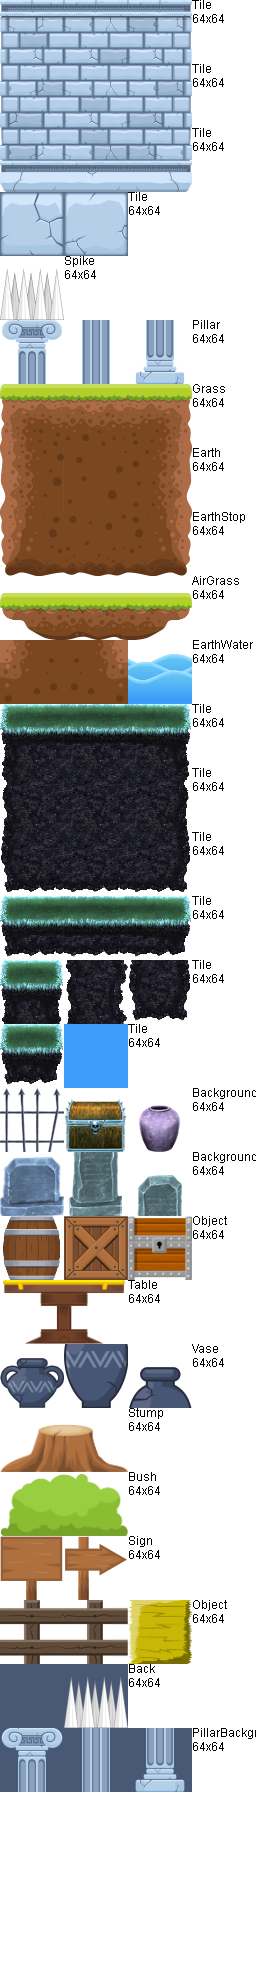
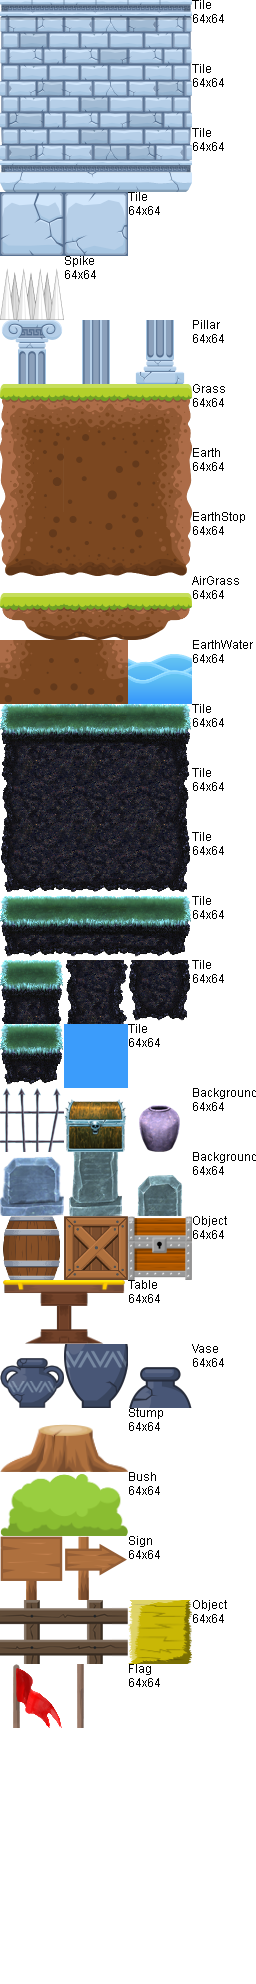
always position castle towers in view for title screen

Changed region(s): [[0.0, 0.8125, 0.75, 0.9062]]

diff --git a/js/src/levels/level-title-screen.js b/js/src/levels/level-title-screen.js
@@ -1,3 +1,3 @@
-var sprites = [{"name":"f-grass2","state":"idle","sequenceIndex":0,"x":0,"y":1216},{"name":"f-grass2","state":"idle","sequenceIndex":0,"x":64,"y":1216},{"name":"f-grass2","state":"idle","sequenceIndex":0,"x":128,"y":1216},{"name":"f-grass2","state":"idle","sequenceIndex":0,"x":192,"y":1216},{"name":"f-grass2","state":"idle","sequenceIndex":0,"x":256,"y":1216},{"name":"h-wall","state":"idle","sequenceIndex":0,"x":320,"y":1024},{"name":"bc-brick4","state":"idle","sequenceIndex":0,"x":320,"y":960},{"name":"bc-brick6","state":"idle","sequenceIndex":0,"x":576,"y":960},{"name":"bc-brick5","state":"idle","sequenceIndex":0,"x":512,"y":896},{"name":"bc-brick5","state":"idle","sequenceIndex":0,"x":384,"y":896},{"name":"bc-brick5","state":"idle","sequenceIndex":0,"x":384,"y":960},{"name":"bc-brick5","state":"idle","sequenceIndex":0,"x":448,"y":960},{"name":"bc-brick5","state":"idle","sequenceIndex":0,"x":512,"y":960},{"name":"bc-brick5","state":"idle","sequenceIndex":0,"x":320,"y":1216},{"name":"bc-brick5","state":"idle","sequenceIndex":0,"x":384,"y":1216},{"name":"bc-brick5","state":"idle","sequenceIndex":0,"x":448,"y":1216},{"name":"bc-brick5","state":"idle","sequenceIndex":0,"x":512,"y":1216},{"name":"bc-brick5","state":"idle","sequenceIndex":0,"x":576,"y":1216},{"name":"hero1","state":"idle-right","sequenceIndex":0,"x":192,"y":1092,"nextState":"idle-right","velocity":0,"acceleration":0,"yVelocity":0,"yAcceleration":0},{"name":"f-grass2","state":"idle","sequenceIndex":0,"x":640,"y":1216},{"name":"f-grass2","state":"idle","sequenceIndex":0,"x":704,"y":1216},{"name":"f-grass2","state":"idle","sequenceIndex":0,"x":768,"y":1216},{"name":"f-grass2","state":"idle","sequenceIndex":0,"x":832,"y":1216},{"name":"f-grass2","state":"idle","sequenceIndex":0,"x":896,"y":1216},{"name":"f-bush1","state":"idle","sequenceIndex":0,"x":832,"y":1152},{"name":"f-bush2","state":"idle","sequenceIndex":0,"x":896,"y":1152},{"name":"bc-brick4","state":"idle","sequenceIndex":0,"x":256,"y":832},{"name":"bc-brick7","state":"idle","sequenceIndex":0,"x":256,"y":896},{"name":"bc-brick5","state":"idle","sequenceIndex":0,"x":320,"y":896},{"name":"bc-brick5","state":"idle","sequenceIndex":0,"x":320,"y":832},{"name":"bc-brick9","state":"idle","sequenceIndex":0,"x":640,"y":896},{"name":"bc-brick6","state":"idle","sequenceIndex":0,"x":640,"y":832},{"name":"bc-brick5","state":"idle","sequenceIndex":0,"x":576,"y":832},{"name":"bc-brick5","state":"idle","sequenceIndex":0,"x":576,"y":896},{"name":"bc-brick5","state":"idle","sequenceIndex":0,"x":320,"y":768},{"name":"bc-brick5","state":"idle","sequenceIndex":0,"x":384,"y":768},{"name":"bc-brick5","state":"idle","sequenceIndex":0,"x":448,"y":768},{"name":"bc-brick5","state":"idle","sequenceIndex":0,"x":512,"y":768},{"name":"bc-brick5","state":"idle","sequenceIndex":0,"x":576,"y":768},{"name":"bc-brick5","state":"idle","sequenceIndex":0,"x":320,"y":704},{"name":"bc-brick5","state":"idle","sequenceIndex":0,"x":384,"y":704},{"name":"bc-brick5","state":"idle","sequenceIndex":0,"x":448,"y":704},{"name":"bc-brick5","state":"idle","sequenceIndex":0,"x":512,"y":704},{"name":"bc-brick5","state":"idle","sequenceIndex":0,"x":576,"y":704},{"name":"bc-brick6","state":"idle","sequenceIndex":0,"x":640,"y":768},{"name":"bc-brick6","state":"idle","sequenceIndex":0,"x":640,"y":704},{"name":"bc-brick4","state":"idle","sequenceIndex":0,"x":256,"y":768},{"name":"bc-brick4","state":"idle","sequenceIndex":0,"x":256,"y":704},{"name":"bc-brick1","state":"idle","sequenceIndex":0,"x":256,"y":640},{"name":"bc-brick2","state":"idle","sequenceIndex":0,"x":384,"y":640},{"name":"bc-brick2","state":"idle","sequenceIndex":0,"x":512,"y":640},{"name":"bc-brick3","state":"idle","sequenceIndex":0,"x":640,"y":640},{"name":"bc-block1","state":"idle","sequenceIndex":0,"x":384,"y":832},{"name":"bc-block2","state":"idle","sequenceIndex":0,"x":448,"y":832},{"name":"bc-block2","state":"idle","sequenceIndex":0,"x":448,"y":896},{"name":"bc-block1","state":"idle","sequenceIndex":0,"x":512,"y":832}];
+var sprites = [{"name":"f-grass2","state":"idle","x":0,"y":1216},{"name":"f-grass2","state":"idle","x":64,"y":1216},{"name":"f-grass2","state":"idle","x":128,"y":1216},{"name":"f-grass2","state":"idle","x":192,"y":1216},{"name":"f-grass2","state":"idle","x":256,"y":1216},{"name":"h-wall","state":"idle","x":320,"y":1024},{"name":"bc-brick4","state":"idle","x":320,"y":960},{"name":"bc-brick6","state":"idle","x":576,"y":960},{"name":"bc-brick5","state":"idle","x":512,"y":896},{"name":"bc-brick5","state":"idle","x":384,"y":896},{"name":"bc-brick5","state":"idle","x":384,"y":960},{"name":"bc-brick5","state":"idle","x":448,"y":960},{"name":"bc-brick5","state":"idle","x":512,"y":960},{"name":"bc-brick5","state":"idle","x":320,"y":1216},{"name":"bc-brick5","state":"idle","x":384,"y":1216},{"name":"bc-brick5","state":"idle","x":448,"y":1216},{"name":"bc-brick5","state":"idle","x":512,"y":1216},{"name":"bc-brick5","state":"idle","x":576,"y":1216},{"name":"hero1","state":"idle-right","x":192,"y":1092,"nextState":"idle-right","velocity":0,"acceleration":0,"yVelocity":0,"yAcceleration":0},{"name":"f-grass2","state":"idle","x":640,"y":1216},{"name":"f-grass2","state":"idle","x":704,"y":1216},{"name":"f-grass2","state":"idle","x":768,"y":1216},{"name":"f-grass2","state":"idle","x":832,"y":1216},{"name":"f-grass2","state":"idle","x":896,"y":1216},{"name":"f-bush1","state":"idle","x":832,"y":1152},{"name":"f-bush2","state":"idle","x":896,"y":1152},{"name":"bc-brick4","state":"idle","x":256,"y":832},{"name":"bc-brick7","state":"idle","x":256,"y":896},{"name":"bc-brick5","state":"idle","x":320,"y":896},{"name":"bc-brick5","state":"idle","x":320,"y":832},{"name":"bc-brick9","state":"idle","x":640,"y":896},{"name":"bc-brick6","state":"idle","x":640,"y":832},{"name":"bc-brick5","state":"idle","x":576,"y":832},{"name":"bc-brick5","state":"idle","x":576,"y":896},{"name":"bc-brick5","state":"idle","x":320,"y":768},{"name":"bc-brick5","state":"idle","x":384,"y":768},{"name":"bc-brick5","state":"idle","x":448,"y":768},{"name":"bc-brick5","state":"idle","x":512,"y":768},{"name":"bc-brick5","state":"idle","x":576,"y":768},{"name":"bc-brick5","state":"idle","x":320,"y":704},{"name":"bc-brick5","state":"idle","x":384,"y":704},{"name":"bc-brick5","state":"idle","x":448,"y":704},{"name":"bc-brick5","state":"idle","x":512,"y":704},{"name":"bc-brick5","state":"idle","x":576,"y":704},{"name":"bc-brick6","state":"idle","x":640,"y":768},{"name":"bc-brick6","state":"idle","x":640,"y":704},{"name":"bc-brick4","state":"idle","x":256,"y":768},{"name":"bc-brick4","state":"idle","x":256,"y":704},{"name":"bc-brick1","state":"idle","x":256,"y":640},{"name":"bc-brick2","state":"idle","x":384,"y":640},{"name":"bc-brick2","state":"idle","x":512,"y":640},{"name":"bc-brick3","state":"idle","x":640,"y":640},{"name":"bc-block1","state":"idle","x":384,"y":832},{"name":"bc-block2","state":"idle","x":448,"y":832},{"name":"bc-block2","state":"idle","x":448,"y":896},{"name":"bc-block1","state":"idle","x":512,"y":832},{"name":"bc-flag2","state":"idle","x":256,"y":576},{"name":"bc-flag2","state":"idle","x":384,"y":576},{"name":"bc-flag2","state":"idle","x":512,"y":576},{"name":"bc-flag2","state":"idle","x":640,"y":576},{"name":"bc-flag1","state":"idle","x":256,"y":512},{"name":"bc-flag1","state":"idle","x":384,"y":512},{"name":"bc-flag1","state":"idle","x":512,"y":512},{"name":"bc-flag1","state":"idle","x":640,"y":512}];
 window._levels || (window._levels = []);
 window._levels.push({"tileWidth":64,"tileHeight":64,"width":15,"height":20,"backgroundImage":"#background-town","puzzle":false,"level":99,"name":"TitleScreen","x":0,"y":-707,"backgroundColor":"rgba(2, 10, 23, 1)","sprites":sprites,"state":"pause","viewportBottom":150,"viewportTop":0,"viewportRight":0,"viewportLeft":0,"time":0});

diff --git a/js/src/tiles.js b/js/src/tiles.js
@@ -34,6 +34,9 @@
   extendSprite(Backbone.Tile, "bc-vase2", {collision: true, zIndex: 1}, {idle: {sequences: [85]}});
   extendSprite(Backbone.Tile, "bc-vase3", {collision: true, zIndex: 1, paddingTop: 23}, {idle: {sequences: [86]}});
 
+  extendSprite(Backbone.Tile, "bc-flag1", {collision: false, zIndex: 1}, {idle: {sequences: [104]}});
+  extendSprite(Backbone.Tile, "bc-flag2", {collision: false, zIndex: 1}, {idle: {sequences: [105]}});
+
   extendSprite(Backbone.Tile, "f-grass1", {collision: true}, {idle: {sequences: [24]}});
   extendSprite(Backbone.Tile, "f-grass2", {collision: true}, {idle: {sequences: [25]}});
   extendSprite(Backbone.Tile, "f-grass3", {collision: true}, {idle: {sequences: [26]}});

diff --git a/edit.html b/edit.html
@@ -39,7 +39,7 @@
         <script src="js/src/projectile.js" type="text/javascript"></script>
         <script src="js/src/hero.js" type="text/javascript"></script>
         <script src="js/src/display.js" type="text/javascript"></script>
-        <script src="js/src/levels/level-2.js" type="text/javascript"></script>
+        <script src="js/src/levels/level-title-screen.js" type="text/javascript"></script>
         <script src="js/src/tutorial.js" type="text/javascript"></script>
         <script src="js/src/edit.js" type="text/javascript"></script>
 

diff --git a/js/src/gui/title-screen.js b/js/src/gui/title-screen.js
@@ -205,7 +205,10 @@
       var camera = this.world.camera;
       this.world.camera = undefined;
       this.world.set(WORLD);
-      if (this.ready) this.world.set("y", this.engine.canvas.height - this.world.height());
+      if (!this.ready)
+        this.world.set("y", 280 - Backbone.HEIGHT);
+      else
+        this.world.set("y", this.engine.canvas.height - this.world.height());
       this.world.spawnSprites();
       this.world.camera = camera;
 
